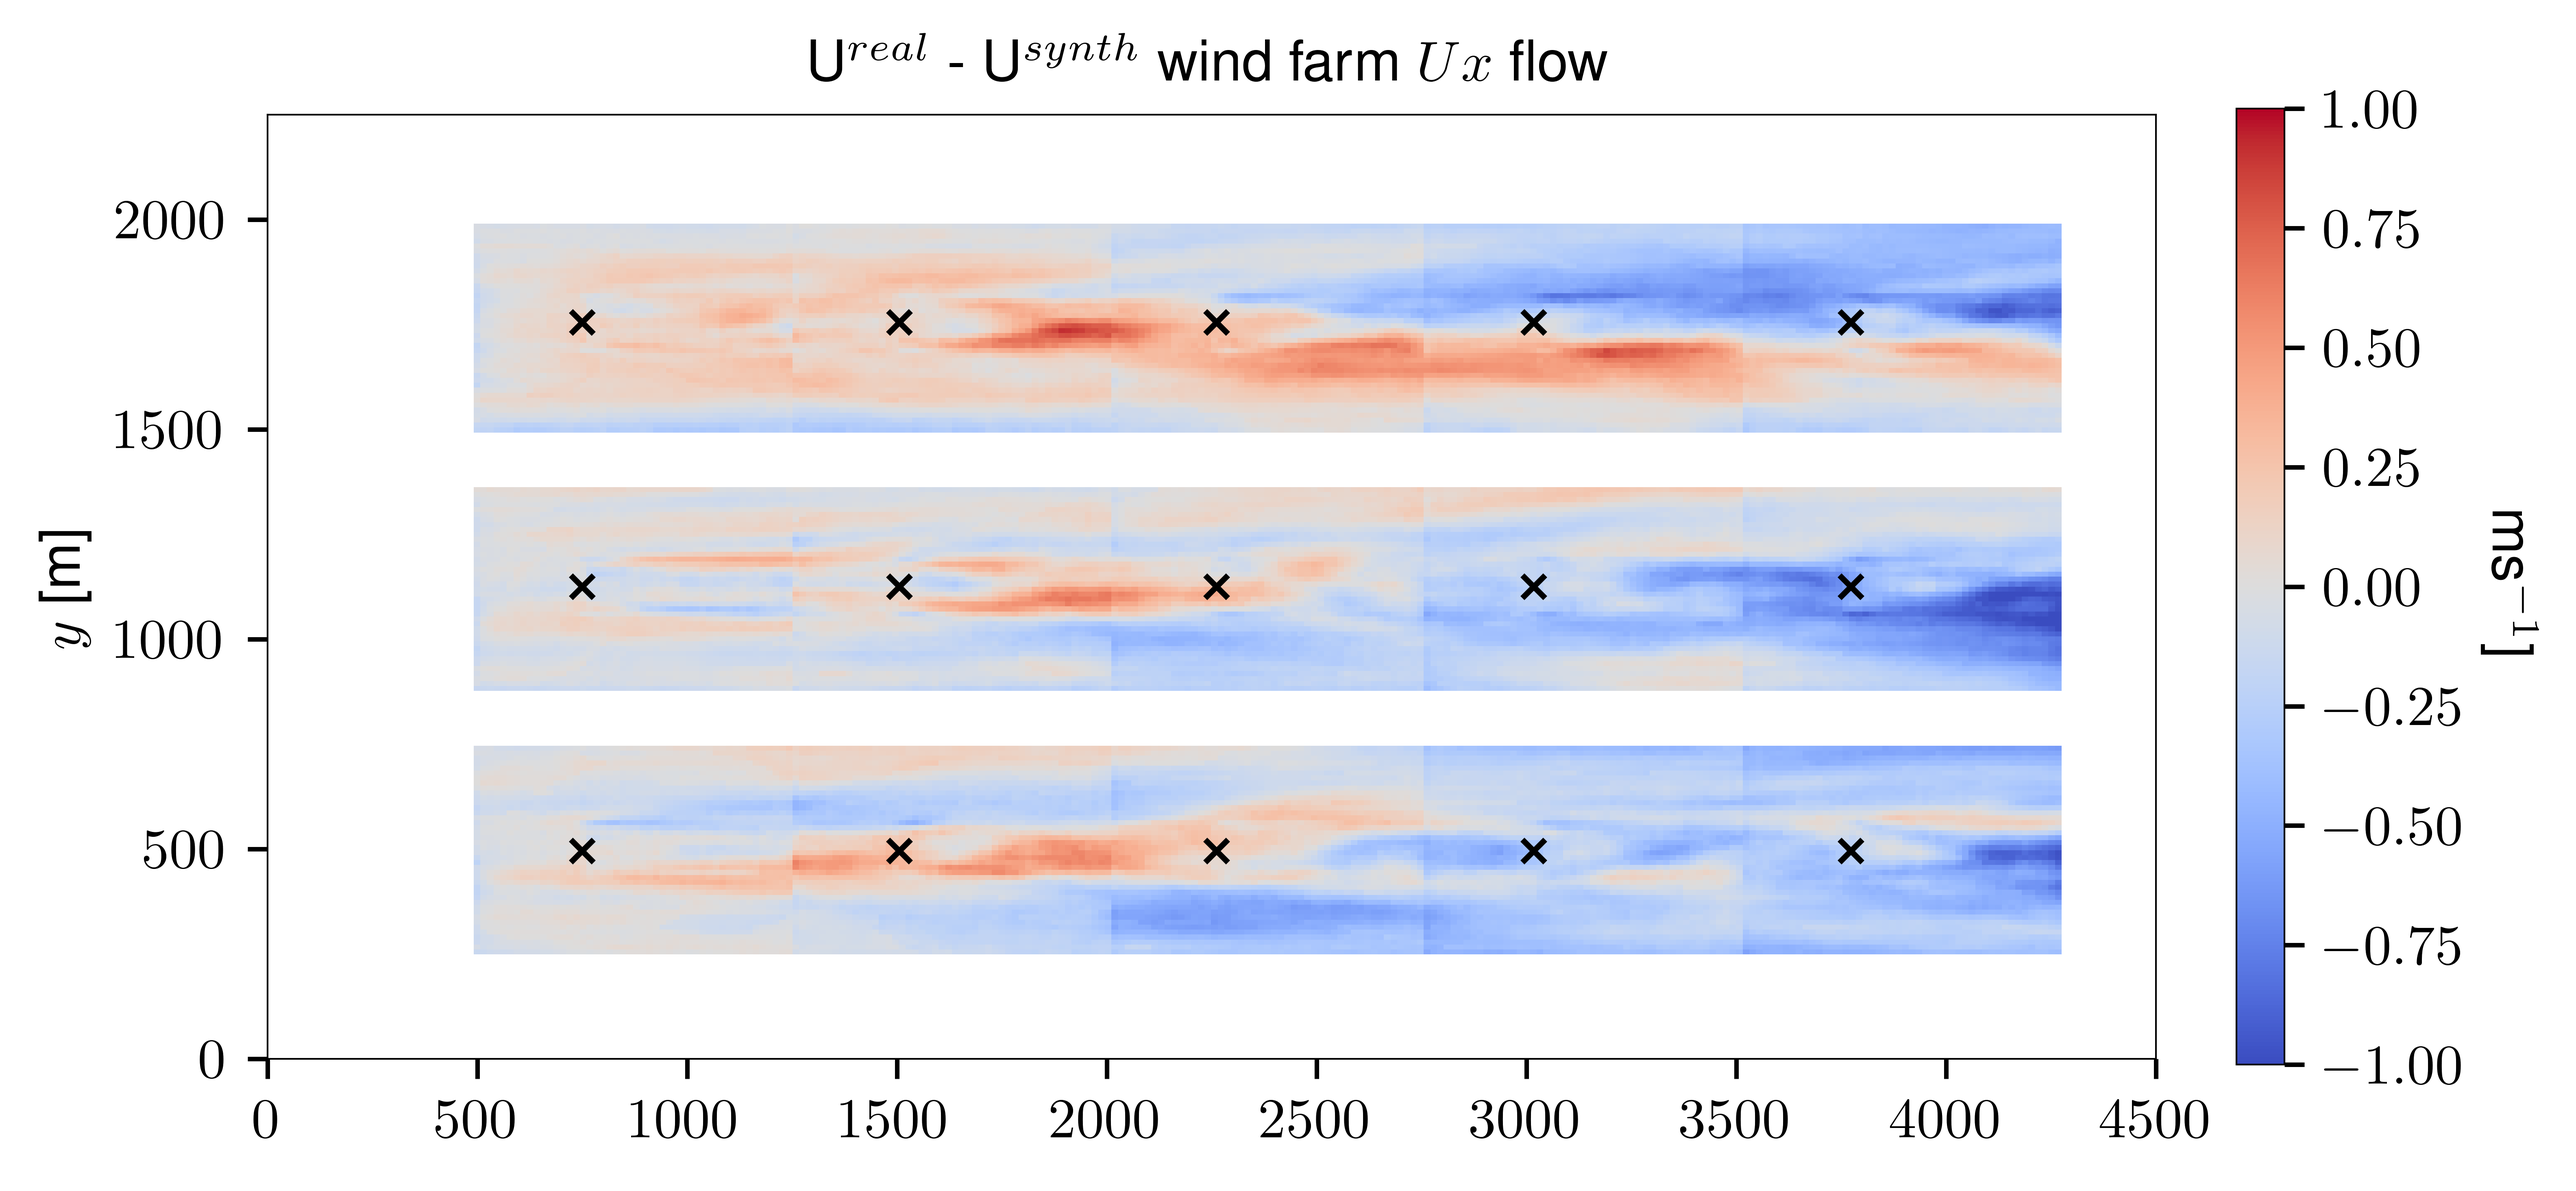
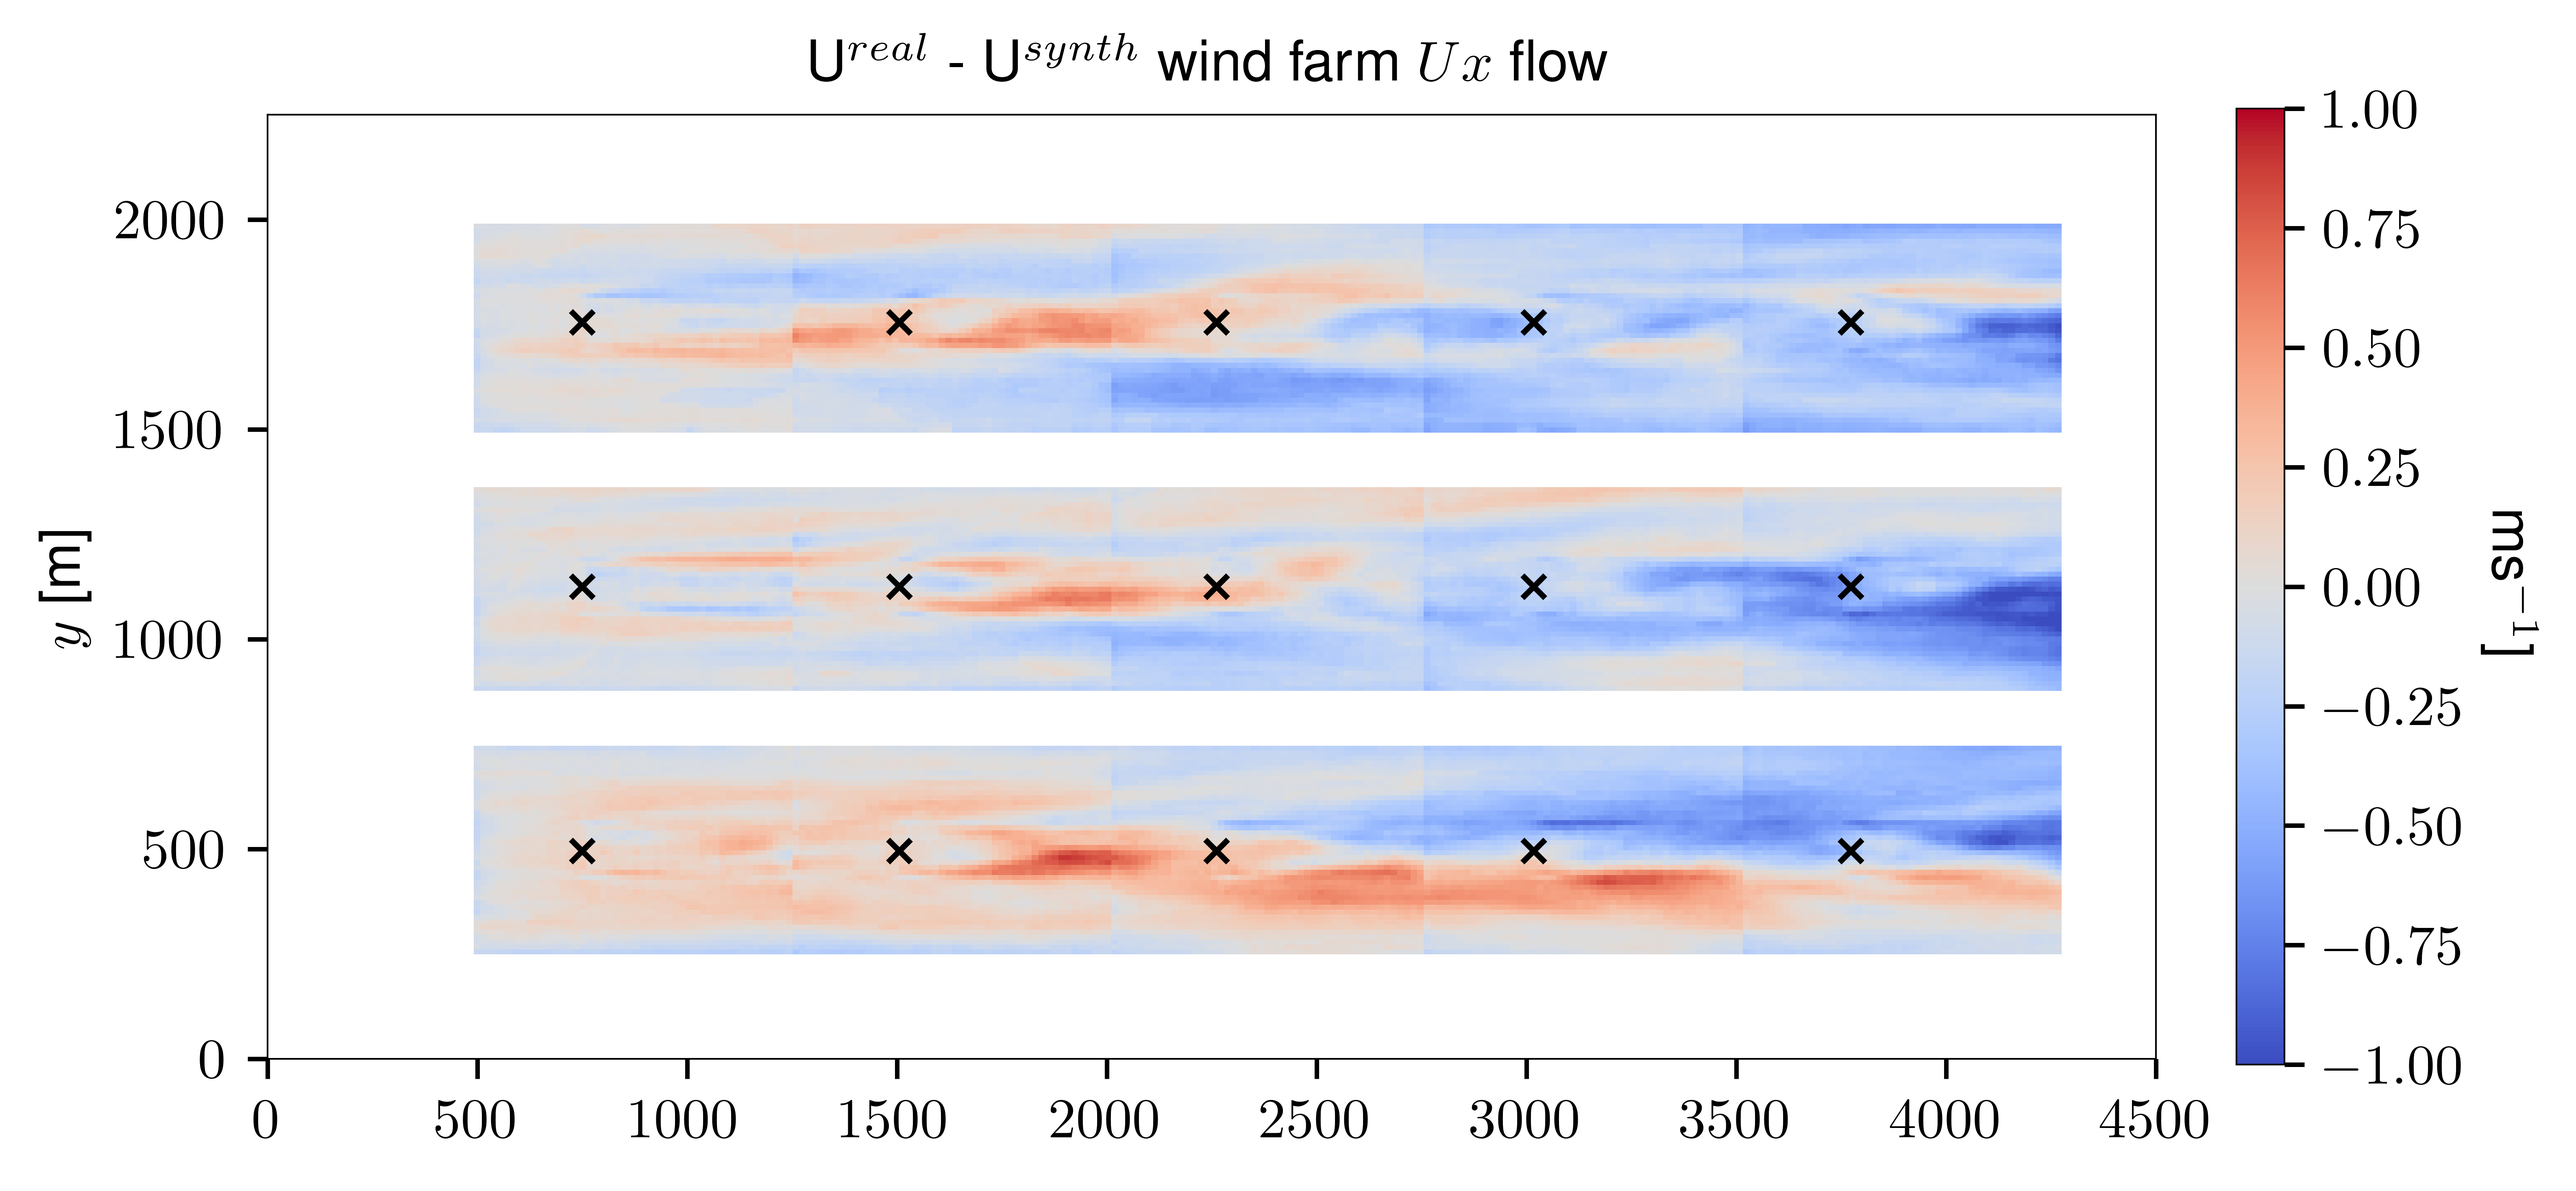
fixed row position of generate_wf.py

Changed region(s): [[0.1866, 0.6214, 0.8085, 0.8078], [0.1866, 0.1864, 0.8085, 0.3728]]

diff --git a/scripts/generate_wf.py b/scripts/generate_wf.py
@@ -80,9 +80,9 @@ def main():
         for row in range(3):
             for col in range(5):
                 if config["data"]["t_window"] == 1000:
-                    filename = f"{prec}_{angle}_({2-row},{col})_{timestep}.pt"
+                    filename = f"{prec}_{angle}_({row},{col})_{timestep}.pt"
                 elif config["data"]["t_window"] == 4000:
-                    filename = f"{prec}_{angle}_({2-row},{col}).pt"
+                    filename = f"{prec}_{angle}_({row},{col}).pt"
                 else:
                     raise ValueError("Invalid t_window value")
                 real = torch.load(os.path.join(path, filename))  # [-1, 1]
